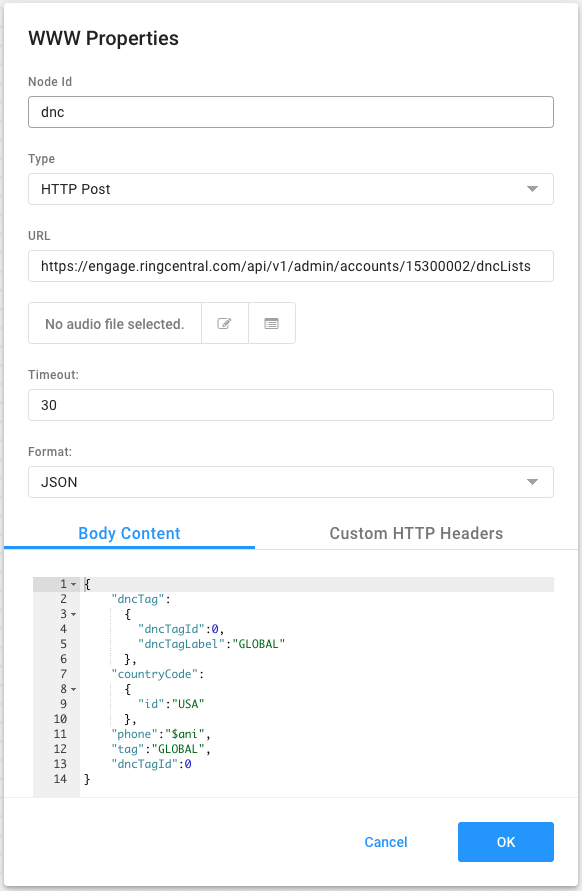
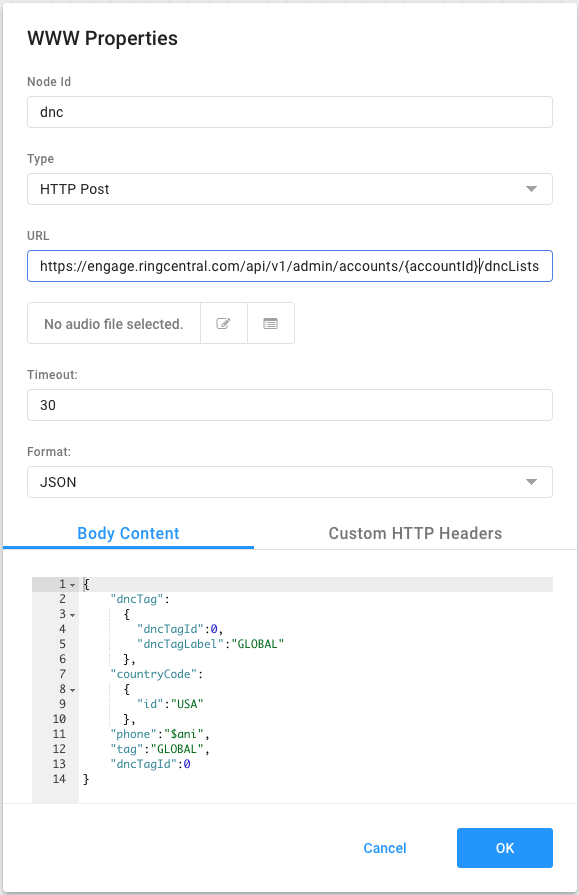
Complete the tutorial prose

diff --git a/docs/index.html b/docs/index.html
@@ -17,14 +17,25 @@
 <p>Let&#39;s begin by creating a workflow in IVR Studio that answers the call and asks for input from the caller about what they would like to do next. In this property window, we create two DTMF options that can direct the call down one of our two paths. The audio file instructs the caller what their options are and in this case, we have the option to leave a voicemail (1) or be put on the do not call list (2).</p>
 <p><img src="images/ivr-answer-input.png" alt="">
 <img src="images/input-properties-dialog.png" alt=""></p>
-</div><div data-title="Press 2, Route to DNC" data-file="../www-properties.md" data-highlight="1-6" class="step"><h2 id="route-caller-to-dnc">Route caller to DNC</h2>
+</div><div data-title="Press 2, Route to DNC" data-file="../www-properties.md" data-highlight="7" class="step"><h2 id="route-caller-to-dnc">Route caller to DNC</h2>
 <p>Since the caller elected to be put on the do not call list by pressing &quot;2&quot;, we can put them on our DNC list using the REST call.  First click on the &quot;?&quot; and select &quot;2&quot; as the input connection property selection.</p>
 <p><img src="images/ivr-answer-input-www.png" alt="">
 <img src="images/get-input-connection-properties-dialog.png" alt=""></p>
-</div><div data-title="Invoke REST API" data-file="../www-properties.md" data-highlight="8-21" class="step"><h2 id="use-rest-api-for-dnc-list">Use REST API for DNC list</h2>
-<p>Let&#39;s configure the REST API call to place this caller on the DNC using their ANI. We&#39;ll need to enter some information like the Type, URL and audio that will play with this action. A JSON body is supplied with the caller&#39;s ANI and we&#39;ll need a fixed value x-auth-token that will be your own auth token.</p>
+</div><div data-title="Configure Remote Call" data-file="../www-properties.md" data-highlight="1-6" class="step"><h2 id="rest-api-endpoint-for-dnc">REST API endpoint for DNC</h2>
+<p>Let&#39;s configure the REST API call to place this caller on the DNC using their ANI (phone number). First we&#39;ll need to enter some information like the method (Type), endpoint (URL), and content type (Format) that will define this action.</p>
 <p><img src="images/ivr-answer-input-www.png" alt="">
 <img src="images/www-properties-dialog.png" alt=""></p>
+</div><div data-title="Create Request Body" data-file="../www-properties.md" data-highlight="8-21" class="step"><h2 id="rest-api-body-content-in-json">REST API body content in JSON</h2>
+<p>Then we&#39;ll need to construct the request body (Body Content) using their ANI (phone number). The data for the JSON body content is shown here.</p>
+<p>Replace {accountId} with your own account ID.</p>
+<p><img src="images/ivr-answer-input-www.png" alt="">
+<img src="images/www-properties-dialog.png" alt=""></p>
+</div><div data-title="Authenticate With Token" data-file="../www-properties.md" data-highlight="8-21" class="step"><h2 id="rest-api-http-headers-for-authentication">REST API HTTP headers for authentication</h2>
+<p>And finally add a custom header with your authentication token.</p>
+<p>To create your own token, click <a href="https://developers.ringcentral.com/engage/voice/guide/authentication/auth-legacy">here</a>.</p>
+<p>Replace the {your auth token} with the auth token you just generated.</p>
+<p><img src="images/ivr-answer-input-www.png" alt="">
+<img src="images/www-properties-dialog-header.png" alt=""></p>
 </div><div data-title="Play Audio" data-file="../play-audio-properties.md" class="step"><h2 id="play-audio-for-dnc">Play audio for DNC</h2>
 <p>Now configure a Play Audio node to let the caller know that their ANI (phone number) has been place on the do not call list.</p>
 <p><img src="images/ivr-answer-input-www-audio.png" alt="">
